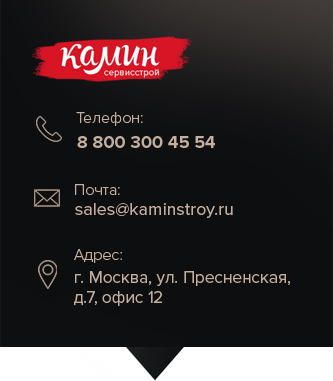
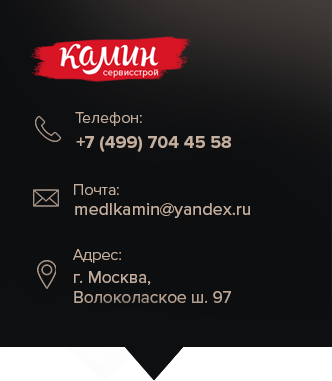
нова метрика+лп трекер+новйи пин и адрес

diff --git a/index.html b/index.html
@@ -6,7 +6,8 @@
   <title>камин-москва.рф</title>
   <link rel="shortcut icon" href="img/favicon-1.png" type="image/x-icon">
   <style>#loader:after,#loader:before{content:"";position:absolute;height:initial;width:initial}#loader-wrapper{position:fixed;top:0;left:0;width:100%;height:100%;z-index:1000}#loader{display:block;position:relative;left:50%;top:50%;width:150px;height:150px;margin:-75px 0 0 -75px;border-radius:50%;border:3px solid transparent;border-top-color:#3498db;-webkit-animation:spin 2s linear infinite;animation:spin 2s linear infinite;z-index:1001}#loader:before{top:5px;left:5px;right:5px;bottom:5px;border-radius:50%;border:3px solid transparent;border-top-color:#e74c3c;-webkit-animation:spin 3s linear infinite;animation:spin 3s linear infinite}#loader:after{top:15px;left:15px;right:15px;bottom:15px;border-radius:50%;border:3px solid transparent;border-top-color:#f9c922;-webkit-animation:spin 1.5s linear infinite;animation:spin 1.5s linear infinite}@-webkit-keyframes spin{0%{-webkit-transform:rotate(0);-ms-transform:rotate(0);transform:rotate(0)}100%{-webkit-transform:rotate(360deg);-ms-transform:rotate(360deg);transform:rotate(360deg)}}@keyframes spin{0%{-webkit-transform:rotate(0);-ms-transform:rotate(0);transform:rotate(0)}100%{-webkit-transform:rotate(360deg);-ms-transform:rotate(360deg);transform:rotate(360deg)}}#loader-wrapper .loader-section{position:fixed;top:0;width:51%;height:100%;background:#222;z-index:1000;-webkit-transform:translateX(0);-ms-transform:translateX(0);transform:translateX(0)}#loader-wrapper .loader-section.section-left{left:0}#loader-wrapper .loader-section.section-right{right:0}.loaded #loader-wrapper .loader-section.section-left{-webkit-transform:translateX(-100%);-ms-transform:translateX(-100%);transform:translateX(-100%);-webkit-transition:all .7s .3s cubic-bezier(.645,.045,.355,1);transition:all .7s .3s cubic-bezier(.645,.045,.355,1)}.loaded #loader-wrapper .loader-section.section-right{-webkit-transform:translateX(100%);-ms-transform:translateX(100%);transform:translateX(100%);-webkit-transition:all .7s .3s cubic-bezier(.645,.045,.355,1);transition:all .7s .3s cubic-bezier(.645,.045,.355,1)}.loaded #loader{opacity:0;-webkit-transition:all .3s ease-out;transition:all .3s ease-out}.loaded #loader-wrapper{visibility:hidden;-webkit-transform:translateY(-100%);-ms-transform:translateY(-100%);transform:translateY(-100%);-webkit-transition:all .3s 1s ease-out;transition:all .3s 1s ease-out}.no-js #loader-wrapper{display:none}.no-js h1{color:#222}#content{margin:0 auto;padding-bottom:50px;width:80%;max-width:978px}</style>
-  <style>#loader,#loader::after,#loader::before{border-radius:50%;border-width:3px;border-style:solid}.no-js #loader-wrapper,[hidden]{display:none}*,.fp-section{box-sizing:border-box}body,h2,h3,h4,h5{text-align:center}.garanty,.header h2,.item-text h4,.sec2 h2,h2{text-transform:uppercase}#loader::after,#loader::before{content:"";position:absolute;height:initial;width:initial}#loader-wrapper{position:fixed;top:0;left:0;width:100%;height:100%;z-index:1000}#loader{display:block;position:relative;left:50%;top:50%;width:150px;height:150px;margin:-75px 0 0 -75px;border-color:#3498db transparent transparent;animation:spin 2s linear infinite;z-index:1001}#loader::before{top:5px;left:5px;right:5px;bottom:5px;border-color:#e74c3c transparent transparent;animation:spin 3s linear infinite}#loader::after{top:15px;left:15px;right:15px;bottom:15px;border-color:#f9c922 transparent transparent;animation:spin 1.5s linear infinite}#fp-nav.right,#loader-wrapper .loader-section.section-right{right:0}#loader-wrapper .loader-section{position:fixed;top:0;width:51%;height:100%;z-index:1000;transform:translateX(0);background:#222}#superContainer,.fp-section,.fp-slides,.fp-tableCell,sub,sup{position:relative}#loader-wrapper .loader-section.section-left{left:0}.loaded #loader-wrapper .loader-section.section-left{transform:translateX(-100%);transition:all .7s cubic-bezier(.645,.045,.355,1) .3s}.loaded #loader-wrapper .loader-section.section-right{transform:translateX(100%);transition:all .7s cubic-bezier(.645,.045,.355,1) .3s}.loaded #loader{opacity:0;transition:all .3s ease-out}.loaded #loader-wrapper{visibility:hidden;transform:translateY(-100%);transition:all .3s ease-out 1s}img,legend{border:0}.animated,.animated3{animation-fill-mode:both;z-index:3}article,aside,details,figcaption,figure,footer,header,hgroup,nav,section,summary{display:block}audio,canvas,video{display:inline-block}audio:not([controls]){display:none;height:0}html{font-family:sans-serif}body,figure{margin:0}a:focus{outline:dotted thin}a:active,a:hover{outline:0}h1{font-size:2em}abbr[title]{border-bottom-width:1px;border-bottom-style:dotted}b,strong{font-weight:700}dfn{font-style:italic}mark{color:#000;background:#ff0}code,kbd,pre,samp{font-family:monospace,serif;font-size:1em}pre{white-space:pre-wrap;word-wrap:break-word}q{quotes:"“" "”" "‘" "’"}small{font-size:80%}sub,sup{font-size:75%;line-height:0;vertical-align:baseline}sup{top:-.5em;clear:none}sub{bottom:-.25em}svg:not(:root){overflow:hidden}fieldset{border:1px solid silver;margin:0 2px;padding:.35em .625em .75em}legend{padding:0}button,input,select,textarea{font-family:inherit;font-size:100%;margin:0}button,input{line-height:normal}button,html input[type=button],input[type=reset],input[type=submit]{-webkit-appearance:button;cursor:pointer}button[disabled],input[disabled]{cursor:default}input[type=checkbox],input[type=radio]{box-sizing:border-box;padding:0}input[type=search]{-webkit-appearance:textfield;box-sizing:content-box}input[type=search]::-webkit-search-cancel-button,input[type=search]::-webkit-search-decoration{-webkit-appearance:none}textarea{overflow:auto;vertical-align:top}table{border-collapse:collapse;border-spacing:0}.animated{animation-duration:1s;animation-fill-mode:both}.fadeInUp{animation-name:fadeInUp}.bx-wrapper .bx-pager.bx-default-pager a.active,.bx-wrapper .bx-pager.bx-default-pager a:hover{background:#cecece}.bx-wrapper .bx-controls-auto .bx-start.active,.bx-wrapper .bx-controls-auto .bx-start:hover{background-position:-86px 0}.bx-wrapper .bx-controls-auto .bx-stop.active,.bx-wrapper .bx-controls-auto .bx-stop:hover{background-position:-86px -33px}.fp-enabled body,html.fp-enabled{margin:0;padding:0;overflow:hidden;-webkit-tap-highlight-color:transparent}.fp-section.fp-table,.fp-slide.fp-table{display:table;table-layout:fixed;width:100%}.fp-tableCell{display:table-cell;vertical-align:middle;width:100%;height:100%}#fp-nav{position:fixed;z-index:100;top:50%;opacity:1;transform:translate3d(0,0,0)}#fp-nav.left{left:17px}#fp-nav ul,.fp-slidesNav ul{margin:0;padding:0}#fp-nav ul li,.fp-slidesNav ul li{display:block;position:relative}#fp-nav ul li a,.fp-slidesNav ul li a{display:block;position:relative;z-index:1;width:100%;height:100%;cursor:pointer;text-decoration:none;outline:0}#fp-nav ul li a.active span,#fp-nav ul li:hover a.active span,.fp-slidesNav ul li a.active span,.fp-slidesNav ul li:hover a.active span{border-radius:100%;border:none;background-color:#ef472d}#fp-nav ul li a span,.fp-slidesNav ul li a span{border-radius:6px;z-index:1;border:0;left:50%;top:50%}#fp-nav ul li .fp-tooltip{position:absolute;top:-2px;color:#fff;font-size:14px;font-family:arial,helvetica,sans-serif;white-space:nowrap;max-width:220px;overflow:hidden;display:block;opacity:0;width:0}#fp-nav ul li:hover .fp-tooltip,#fp-nav.fp-show-active a.active+.fp-tooltip{transition:opacity .2s ease-in;width:auto;opacity:1}.back,.phone span a,.sec2 .item{transition:all .25s}#fp-nav ul li .fp-tooltip.right{right:20px}#fp-nav ul li .fp-tooltip.left{left:20px}*{margin:0;padding:0}#s2s1,.header h2{padding-top:30px}::after,::before{content:" ";display:block;width:100%;height:0;clear:both}a::after,a::before,br::after,br::before,img::after,img::before,span::after,span::before,table::after,table::before,td::after,td::before,tr::after,tr::before{content:none}.wrapper{width:1200px;margin:0 auto;height:100%;position:relative}.middle-wrap,.slice{width:100%;transform:translateY(-50%);left:0}.middle-wrap{position:absolute;top:50%;height:100%;min-height:600px}.slice{position:absolute}#s1s1{top:33.2778%;margin-top:100.33px}#s1s2{top:41.8889%;margin-top:372.67px}#s2s1{top:50%}#fp-nav.right{left:0;width:40px}#fp-nav ul li,.fp-slidesNav ul li{width:20px;height:20px;margin:0}#fp-nav ul li a,.fp-slidesNav ul li a{border:none;margin:0}#fp-nav ul li a.active span,#fp-nav ul li:hover a.active span,.fp-slidesNav ul li a.active span,.fp-slidesNav ul li:hover a.active span{height:8px;width:8px;margin:-4px 0 0 -4px;background:#fff}#fp-nav ul li a:hover span,.fp-slidesNav ul li a span{background:#fff}#fp-nav ul li a span,.fp-slidesNav ul li a span{width:8px;height:8px;position:absolute;display:block;margin:-4px 0 0 -4px;transition:all .25s;box-shadow:rgba(0,0,0,.498039) 0 0 15px;background:#b88b67}body,section{z-index:2;position:relative}.animation,.animation2,.animation3{animation-delay:.5s;opacity:0}.first-slider-slide.active,.second-slider-slide.active{opacity:1}section{width:100%;min-width:1260px;overflow:hidden;background-size:cover!important}ul{list-style:none}h2,h3,h4,h5{font-size:1em;font-weight:400}a{text-decoration:none;color:inherit;outline:0!important}.header,header{width:100%;color:#fff}body{font-family:proxima,sans-serif}.gar-stamp,header{position:absolute}header{left:0;top:19.9444%;margin-top:-71.67px;transform:translateY(-50%);z-index:5;height:75px!important}.header{height:1032px;background:url(img/s1_bg.jpg) 50% 50% no-repeat}.phone span a,.phone span a:hover{color:#c7956f;border-bottom-width:2px;border-bottom-style:dotted}.logo{float:left;width:236px;height:68px;margin:0 10px;background:url(img/logo.png) 50% 50% no-repeat}.phone{float:right;margin:17px 10px 0;text-align:right}.header-text{display:inline-block;font-family:proxima;font-weight:300;font-size:24px;margin:24px auto 0}.phone a,.phone span{display:block}.phone a{font-size:30px}.item,.nav,.phone span a{display:inline-block}.phone span a{font-size:19px;border-bottom-color:#c7956f;cursor:pointer}.phone span a:hover{border-bottom-color:transparent}h2{font-size:35px;font-weight:700;color:#ebd1bb}.header h2{color:#fff;font-size:52px;line-height:62px;background:url(img/s1_fire.png) 50% 0 no-repeat}.header h2 span{line-height:74px;font-size:37px;font-weight:400}.garanty{color:#c7956f;font-size:24px;font-weight:700;padding-top:107px;height:376px;background:url(img/s1_gar_t.png) 50% 0 no-repeat}.gar-stamp{width:157px;height:157px;right:23px;top:61.0556%;margin-top:71.67px;background:url(img/s1_gar.png) 50% 50% no-repeat}.sec2{color:#ebd1bb;height:966px;min-height:600px;background-color:#483c3c}.sec2 h2{width:869px;margin:-23px auto 67px;z-index:2;background:#483c3c}.sec2 .block-cont{height:539px;border:8px solid #edd5c1;position:relative}.item-text,.kalk-steps{position:absolute;width:100%}.kalk-steps{top:87px;left:0}.sec2 p{margin-bottom:46px;font-size:30px}.s2-form-p{margin-top:77px;margin-bottom:56px!important}.item-text{top:162px}.item,.sec2 .item,.sec2 .item img{position:relative}.item-text h4{font-weight:700;font-size:19px;margin-top:23px}.item-text h3{font-size:23px;font-weight:700}.item-text span{line-height:31px;font-size:18px}.sec2 .items{letter-spacing:14px}.sec2 .item:hover{border:3px solid #ebd1bb}.sec2 .item{letter-spacing:normal;height:241px;border:3px solid transparent;cursor:pointer}.sec2 .item img{margin:-3px;z-index:-2}.back,.nav,.nav .cursor{position:absolute}.back:hover{left:43px}.back{float:left;padding-left:24px;font-size:18px;left:48px;bottom:27px;cursor:pointer;background:url(img/back_arrow.png) 0 50% no-repeat}.nav{width:560px;height:3px;bottom:32px;left:50%;margin-left:-280px;background-color:#9a8371}.block-cont[data-step="2"] .nav .cursor{width:50%}.block-cont[data-step="3"] .nav .cursor{width:75%}.block-cont[data-step="4"] .nav .cursor{width:100%}.nav .cursor{width:25%;height:3px;left:0;transition:.25s;background-color:#e8cdb7}.block-right,.right{float:right}.sec4 .right{float:right;width:64%;padding-left:65px}form button,form input,form textarea{padding:15px 25px;margin-right:3px;width:175px;height:54px;border-radius:5px;color:#000;transition:all .25s;border:1px solid transparent;outline:0}::-webkit-input-placeholder{color:#999}form button{color:#fff;background-color:#d71525}form button:hover{background-color:#b40a18}.sec7 ul li.active{position:relative;border-bottom-width:2px;border-bottom-style:dotted;border-bottom-color:transparent;color:#d4c1b4}.sec7 ul li.active::before{content:"";position:absolute;display:block;width:69px;height:4px;left:150px;top:50%;margin-top:-4px;color:#d4c1b4;border:none;background-color:#d4c1b3}.sec7 .right{margin-right:124px;margin-top:81px;letter-spacing:32px;width:619px;position:relative}.sec7 .right .item{display:inline-block;margin-bottom:29px;letter-spacing:normal}.sec7 .right .item:hover{box-shadow:rgba(43,43,49,.458824) 3px 4px 32px}.sec7 .right span:hover{box-shadow:none}.sec7 .right .item span{display:block;width:127px;color:#d7bca9;font-size:17px;font-style:italic}.sec12 .right img,.sec12 .right p{font-style:italic;color:#c3b7af;font-size:18px;float:left}sup::after,sup::before{content:none}.sec9 .right{position:relative;width:75%;height:600px;margin-top:-18px}.sec9 .right p.ch5{top:587px;right:168px;text-align:left}.sec9 .right p.ch2{top:220px;left:113px;text-align:left}.sec9 .right p.ch3{top:120px;right:83px;line-height:153px;text-align:left}.sec9 .right p.ch4{top:542px;left:113px;text-align:right}.sec12 .right{width:860px;position:relative}.sec12 .right p{margin-top:535px;margin-bottom:185px;padding:0 41px 0 67px;text-align:right}.sec12 .right img{margin-top:240px;text-align:right;margin-left:6px;cursor:pointer;box-shadow:rgba(73,73,75,.941176) -2px 4px 20px 0}footer{color:#717171;font-size:14px;height:108px;text-align:left;position:absolute;bottom:0;z-index:4;width:100%;background:#0d0e10}footer p{float:left;margin-top:27px}footer span{float:left;font-size:12px;margin-top:10px}footer .logo{margin-top:-5px;float:right;width:178px;height:36px;background:url(img/logo-foot.png) 50% 0 no-repeat}</style>
+  <style>#loader,#loader::after,#loader::before{border-radius:50%;border-width:3px;border-style:solid}.no-js #loader-wrapper,[hidden]{display:none}*,.fp-section{box-sizing:border-box}body,h2,h3,h4,h5{text-align:center}.garanty,.header h2,.item-text h4,.sec2 h2,h2{text-transform:uppercase}#loader::after,#loader::before{content:"";position:absolute;height:initial;width:initial}#loader-wrapper{position:fixed;top:0;left:0;width:100%;height:100%;z-index:1000}#loader{display:block;position:relative;left:50%;top:50%;width:150px;height:150px;margin:-75px 0 0 -75px;border-color:#3498db transparent transparent;animation:spin 2s linear infinite;z-index:1001}#loader::before{top:5px;left:5px;right:5px;bottom:5px;border-color:#e74c3c transparent transparent;animation:spin 3s linear infinite}#loader::after{top:15px;left:15px;right:15px;bottom:15px;border-color:#f9c922 transparent transparent;animation:spin 1.5s linear infinite}#fp-nav.right,#loader-wrapper .loader-section.section-right{right:0}#loader-wrapper .loader-section{position:fixed;top:0;width:51%;height:100%;z-index:1000;transform:translateX(0);background:#222}#superContainer,.fp-section,.fp-slides,.fp-tableCell,sub,sup{position:relative}#loader-wrapper .loader-section.section-left{left:0}.loaded #loader-wrapper .loader-section.section-left{transform:translateX(-100%);transition:all .7s cubic-bezier(.645,.045,.355,1) .3s}.loaded #loader-wrapper .loader-section.section-right{transform:translateX(100%);transition:all .7s cubic-bezier(.645,.045,.355,1) .3s}.loaded #loader{opacity:0;transition:all .3s ease-out}.loaded #loader-wrapper{visibility:hidden;transform:translateY(-100%);transition:all .3s ease-out 1s}img,legend{border:0}.animated,.animated3{animation-fill-mode:both;z-index:3}article,aside,details,figcaption,figure,footer,header,hgroup,nav,section,summary{display:block}audio,canvas,video{display:inline-block}audio:not([controls]){display:none;height:0}html{font-family:sans-serif}body,figure{margin:0}a:focus{outline:dotted thin}a:active,a:hover{outline:0}h1{font-size:2em}abbr[title]{border-bottom-width:1px;border-bottom-style:dotted}b,strong{font-weight:700}dfn{font-style:italic}mark{color:#000;background:#ff0}code,kbd,pre,samp{font-family:monospace,serif;font-size:1em}pre{white-space:pre-wrap;word-wrap:break-word}q{quotes:"“" "”" "‘" "’"}small{font-size:80%}sub,sup{font-size:75%;line-height:0;vertical-align:baseline}sup{top:-.5em;clear:none}sub{bottom:-.25em}svg:not(:root){overflow:hidden}fieldset{border:1px solid silver;margin:0 2px;padding:.35em .625em .75em}legend{padding:0}button,input,select,textarea{font-family:inherit;font-size:100%;margin:0}button,input{line-height:normal}button,html input[type=button],input[type=reset],input[type=submit]{-webkit-appearance:button;cursor:pointer}button[disabled],input[disabled]{cursor:default}input[type=checkbox],input[type=radio]{box-sizing:border-box;padding:0}input[type=search]{-webkit-appearance:textfield;box-sizing:content-box}input[type=search]::-webkit-search-cancel-button,input[type=search]::-webkit-search-decoration{-webkit-appearance:none}textarea{overflow:auto;vertical-align:top}table{border-collapse:collapse;border-spacing:0}.animated{animation-duration:1s;animation-fill-mode:both}.fadeInUp{animation-name:fadeInUp}.bx-wrapper .bx-pager.bx-default-pager a.active,.bx-wrapper .bx-pager.bx-default-pager a:hover{background:#cecece}.bx-wrapper .bx-controls-auto .bx-start.active,.bx-wrapper .bx-controls-auto .bx-start:hover{background-position:-86px 0}.bx-wrapper .bx-controls-auto .bx-stop.active,.bx-wrapper .bx-controls-auto .bx-stop:hover{background-position:-86px -33px}.fp-enabled body,html.fp-enabled{margin:0;padding:0;overflow:hidden;-webkit-tap-highlight-color:transparent}.fp-section.fp-table,.fp-slide.fp-table{display:table;table-layout:fixed;width:100%}.fp-tableCell{display:table-cell;vertical-align:middle;width:100%;height:100%}#fp-nav{position:fixed;z-index:100;top:50%;opacity:1;transform:translate3d(0,0,0)}#fp-nav.left{left:17px}#fp-nav ul,.fp-slidesNav ul{margin:0;padding:0}#fp-nav ul li,.fp-slidesNav ul li{display:block;position:relative}#fp-nav ul li a,.fp-slidesNav ul li a{display:block;position:relative;z-index:1;width:100%;height:100%;cursor:pointer;text-decoration:none;outline:0}#fp-nav ul li a.active span,#fp-nav ul li:hover a.active span,.fp-slidesNav ul li a.active span,.fp-slidesNav ul li:hover a.active span{border-radius:100%;border:none;background-color:#ef472d}#fp-nav ul li a span,.fp-slidesNav ul li a span{border-radius:6px;z-index:1;border:0;left:50%;top:50%}#fp-nav ul li .fp-tooltip{position:absolute;top:-2px;color:#fff;font-size:14px;font-family:arial,helvetica,sans-serif;white-space:nowrap;max-width:220px;overflow:hidden;display:block;opacity:0;width:0}#fp-nav ul li:hover .fp-tooltip,#fp-nav.fp-show-active a.active+.fp-tooltip{transition:opacity .2s ease-in;width:auto;opacity:1}.back,.phone span a,.sec2 .item{transition:all .25s}#fp-nav ul li .fp-tooltip.right{right:20px}#fp-nav ul li .fp-tooltip.left{left:20px}*{margin:0;padding:0}#s2s1,.header h2{padding-top:30px}::after,::before{content:" ";display:block;width:100%;height:0;clear:both}a::after,a::before,br::after,br::before,img::after,img::before,span::after,span::before,table::after,table::before,td::after,td::before,tr::after,tr::before{content:none}.wrapper{width:1200px;margin:0 auto;height:100%;position:relative}.middle-wrap,.slice{width:100%;transform:translateY(-50%);left:0}.middle-wrap{position:absolute;top:50%;height:100%;min-height:600px}.slice{position:absolute}#s1s1{top:33.2778%;margin-top:100.33px}#s1s2{top:41.8889%;margin-top:372.67px}#s2s1{top:50%}#fp-nav.right{left:0;width:40px}#fp-nav ul li,.fp-slidesNav ul li{width:20px;height:20px;margin:0}#fp-nav ul li a,.fp-slidesNav ul li a{border:none;margin:0}#fp-nav ul li a.active span,#fp-nav ul li:hover a.active span,.fp-slidesNav ul li a.active span,.fp-slidesNav ul li:hover a.active span{height:8px;width:8px;margin:-4px 0 0 -4px;background:#fff}#fp-nav ul li a:hover span,.fp-slidesNav ul li a span{background:#fff}#fp-nav ul li a span,.fp-slidesNav ul li a span{width:8px;height:8px;position:absolute;display:block;margin:-4px 0 0 -4px;transition:all .25s;box-shadow:rgba(0,0,0,.498039) 0 0 15px;background:#b88b67}body,section{z-index:2;position:relative}.animation,.animation2,.animation3{animation-delay:.5s;opacity:0}.first-slider-slide.active,.second-slider-slide.active{opacity:1}section{width:100%;min-width:1260px;overflow:hidden;background-size:cover!important}ul{list-style:none}h2,h3,h4,h5{font-size:1em;font-weight:400}a{text-decoration:none;color:inherit;outline:0!important}.header,header{width:100%;color:#fff}body{font-family:proxima,sans-serif}.gar-stamp,header{position:absolute}header{left:0;top:19.9444%;margin-top:-71.67px;transform:translateY(-50%);z-index:5;height:75px!important}.header{height:1032px;background:url(img/s1_bg.jpg) 50% 50% no-repeat}.phone span a,.phone span a:hover{color:#c7956f;border-bottom-width:2px;border-bottom-style:dotted}.logo{float:left;width:236px;height:68px;margin:0 10px;background:url(img/logo.png) 50% 50% no-repeat}.phone{float:right;margin:17px 10px 0;text-align:right}.header-text{display:inline-block;font-family:proxima;font-weight:300;font-size:24px;margin:24px auto 0}.phone div,.phone span{display:block}.phone div{font-size:30px}.item,.nav,.phone span a{display:inline-block}.phone span a{font-size:19px;border-bottom-color:#c7956f;cursor:pointer}.phone span a:hover{border-bottom-color:transparent}h2{font-size:35px;font-weight:700;color:#ebd1bb}.header h2{color:#fff;font-size:52px;line-height:62px;background:url(img/s1_fire.png) 50% 0 no-repeat}.header h2 span{line-height:74px;font-size:37px;font-weight:400}.garanty{color:#c7956f;font-size:24px;font-weight:700;padding-top:107px;height:376px;background:url(img/s1_gar_t.png) 50% 0 no-repeat}.gar-stamp{width:157px;height:157px;right:23px;top:61.0556%;margin-top:71.67px;background:url(img/s1_gar.png) 50% 50% no-repeat}.sec2{color:#ebd1bb;height:966px;min-height:600px;background-color:#483c3c}.sec2 h2{width:869px;margin:-23px auto 67px;z-index:2;background:#483c3c}.sec2 .block-cont{height:539px;border:8px solid #edd5c1;position:relative}.item-text,.kalk-steps{position:absolute;width:100%}.kalk-steps{top:87px;left:0}.sec2 p{margin-bottom:46px;font-size:30px}.s2-form-p{margin-top:77px;margin-bottom:56px!important}.item-text{top:162px}.item,.sec2 .item,.sec2 .item img{position:relative}.item-text h4{font-weight:700;font-size:19px;margin-top:23px}.item-text h3{font-size:23px;font-weight:700}.item-text span{line-height:31px;font-size:18px}.sec2 .items{letter-spacing:14px}.sec2 .item:hover{border:3px solid #ebd1bb}.sec2 .item{letter-spacing:normal;height:241px;border:3px solid transparent;cursor:pointer}.sec2 .item img{margin:-3px;z-index:-2}.back,.nav,.nav .cursor{position:absolute}.back:hover{left:43px}.back{float:left;padding-left:24px;font-size:18px;left:48px;bottom:27px;cursor:pointer;background:url(img/back_arrow.png) 0 50% no-repeat}.nav{width:560px;height:3px;bottom:32px;left:50%;margin-left:-280px;background-color:#9a8371}.block-cont[data-step="2"] .nav .cursor{width:50%}.block-cont[data-step="3"] .nav .cursor{width:75%}.block-cont[data-step="4"] .nav .cursor{width:100%}.nav .cursor{width:25%;height:3px;left:0;transition:.25s;background-color:#e8cdb7}.block-right,.right{float:right}.sec4 .right{float:right;width:64%;padding-left:65px}form button,form input,form textarea{padding:15px 25px;margin-right:3px;width:175px;height:54px;border-radius:5px;color:#000;transition:all .25s;border:1px solid transparent;outline:0}::-webkit-input-placeholder{color:#999}form button{color:#fff;background-color:#d71525}form button:hover{background-color:#b40a18}.sec7 ul li.active{position:relative;border-bottom-width:2px;border-bottom-style:dotted;border-bottom-color:transparent;color:#d4c1b4}.sec7 ul li.active::before{content:"";position:absolute;display:block;width:69px;height:4px;left:150px;top:50%;margin-top:-4px;color:#d4c1b4;border:none;background-color:#d4c1b3}.sec7 .right{margin-right:124px;margin-top:81px;letter-spacing:32px;width:619px;position:relative}.sec7 .right .item{display:inline-block;margin-bottom:29px;letter-spacing:normal}.sec7 .right .item:hover{box-shadow:rgba(43,43,49,.458824) 3px 4px 32px}.sec7 .right span:hover{box-shadow:none}.sec7 .right .item span{display:block;width:127px;color:#d7bca9;font-size:17px;font-style:italic}.sec12 .right img,.sec12 .right p{font-style:italic;color:#c3b7af;font-size:18px;float:left}sup::after,sup::before{content:none}.sec9 .right{position:relative;width:75%;height:600px;margin-top:-18px}.sec9 .right p.ch5{top:587px;right:168px;text-align:left}.sec9 .right p.ch2{top:220px;left:113px;text-align:left}.sec9 .right p.ch3{top:120px;right:83px;line-height:153px;text-align:left}.sec9 .right p.ch4{top:542px;left:113px;text-align:right}.sec12 .right{width:860px;position:relative}.sec12 .right p{margin-top:535px;margin-bottom:185px;padding:0 41px 0 67px;text-align:right}.sec12 .right img{margin-top:240px;text-align:right;margin-left:6px;cursor:pointer;box-shadow:rgba(73,73,75,.941176) -2px 4px 20px 0}footer{color:#717171;font-size:14px;height:108px;text-align:left;position:absolute;bottom:0;z-index:4;width:100%;background:#0d0e10}footer p{float:left;margin-top:27px}footer span{float:left;font-size:12px;margin-top:10px}footer .logo{margin-top:-5px;float:right;width:178px;height:36px;background:url(img/logo-foot.png) 50% 0 no-repeat}</style>
[1 lines of base64/hex data omitted]
  </head>
  <body>
   <div id="loader-wrapper">
@@ -21,7 +22,7 @@
      <div class="wrapper">
       <div class="logo"></div>
       <div class="phone">
-       <a href="tel:84952417441">8 (495) 241 74 41</a>
+       <div class="lptracker_phone">+7 (499) 704-45-58</div>
        <span><a href="#" id="zz-btn">заказать звонок</a></span>
       </div>
       <span class="header-text">Очаг греет</span>
@@ -1030,6 +1031,6 @@
      <script src="js/main.js"></script>
      <script type="text/javascript" src="https://maps.googleapis.com/maps/api/js?sensor=false"></script>
      <script src="js/map.js"></script>
-     <!-- Yandex.Metrika counter --> <script type="text/javascript"> (function (d, w, c) { (w[c] = w[c] || []).push(function() { try { w.yaCounter36566705 = new Ya.Metrika({ id:36566705, clickmap:true, trackLinks:true, accurateTrackBounce:true, webvisor:true, trackHash:true }); } catch(e) { } }); var n = d.getElementsByTagName("script")[0], s = d.createElement("script"), f = function () { n.parentNode.insertBefore(s, n); }; s.type = "text/javascript"; s.async = true; s.src = "https://mc.yandex.ru/metrika/watch.js"; if (w.opera == "[object Opera]") { d.addEventListener("DOMContentLoaded", f, false); } else { f(); } })(document, window, "yandex_metrika_callbacks"); </script> <noscript><div><img src="https://mc.yandex.ru/watch/36566705" style="position:absolute; left:-9999px;" alt="" /></div></noscript> <!-- /Yandex.Metrika counter -->
+     <!-- Yandex.Metrika counter --> <script type="text/javascript"> (function (d, w, c) { (w[c] = w[c] || []).push(function() { try { w.yaCounter36722730 = new Ya.Metrika({ id:36722730, clickmap:true, trackLinks:true, accurateTrackBounce:true, webvisor:true, trackHash:true }); } catch(e) { } }); var n = d.getElementsByTagName("script")[0], s = d.createElement("script"), f = function () { n.parentNode.insertBefore(s, n); }; s.type = "text/javascript"; s.async = true; s.src = "https://mc.yandex.ru/metrika/watch.js"; if (w.opera == "[object Opera]") { d.addEventListener("DOMContentLoaded", f, false); } else { f(); } })(document, window, "yandex_metrika_callbacks"); </script> <noscript><div><img src="https://mc.yandex.ru/watch/36722730" style="position:absolute; left:-9999px;" alt="" /></div></noscript> <!-- /Yandex.Metrika counter -->
     </body>
    </html>

diff --git a/js/map.js b/js/map.js
@@ -10,7 +10,7 @@ function init() {
         scrollwheel: false,
 
         // The latitude and longitude to center the map (always required)
-        center: new google.maps.LatLng(55.86217034338069,37.84310907617191), // New York
+        center: new google.maps.LatLng(55.9257626,37.6783633), // New York
 
         // How you would like to style the map. 
         // This is where you would paste any style found on Snazzy Maps.
@@ -28,7 +28,7 @@ function init() {
 
     // Let's also add a marker while we're at it
     var marker = new google.maps.Marker({
-        position: new google.maps.LatLng(55.76726208892709,37.56433100000004),
+        position: new google.maps.LatLng(55.8308543514439,37.399585284655814),
         map: map,
         icon:{url:'img/point.png',origin: new google.maps.Point(-151, 0),
   origin: new google.maps.Point(0, 0),size: new google.maps.Size(333, 381),},

diff --git a/css/style.min.css b/css/style.min.css
@@ -32,7 +32,7 @@ header{position:absolute;color:#fff;left:0;width:100%;top:19.944444444444443%;ma
 .logo{float:left;width:236px;height:68px;margin:0 10px 0;background:url(../img/logo.png) no-repeat center}
 .phone{float:right;margin:17px 10px 0;text-align:right}
 .header-text{display:inline-block;font-family:proxima;font-weight:300;font-size:24px;margin:24px auto 0}
-.phone a{display:block;font-size:30px}
+.phone div{display:block;font-size:30px}
 .phone span{display:block}
 .phone span a{display:inline-block;font-size:19px;color:#c7956f;border-bottom:2px dotted #c7956f;cursor:pointer;-webkit-transition:all .25s;transition:all .25s}
 .phone span a:hover{color:#c7956f;border-bottom:2px dotted transparent}

diff --git a/js/main.js b/js/main.js
@@ -148,7 +148,7 @@ $('<link rel=stylesheet type=text/css href="css/libs.min.css"><link rel=styleshe
             $.ajax({type: type, url: url, data: data,
             success : function(){
                 $.arcticmodal('close');$('#okgo').arcticmodal();
-                yaCounter36566705.reachGoal('submit');
+                yaCounter36722730.reachGoal('submit');
             }
         }); 
         }
